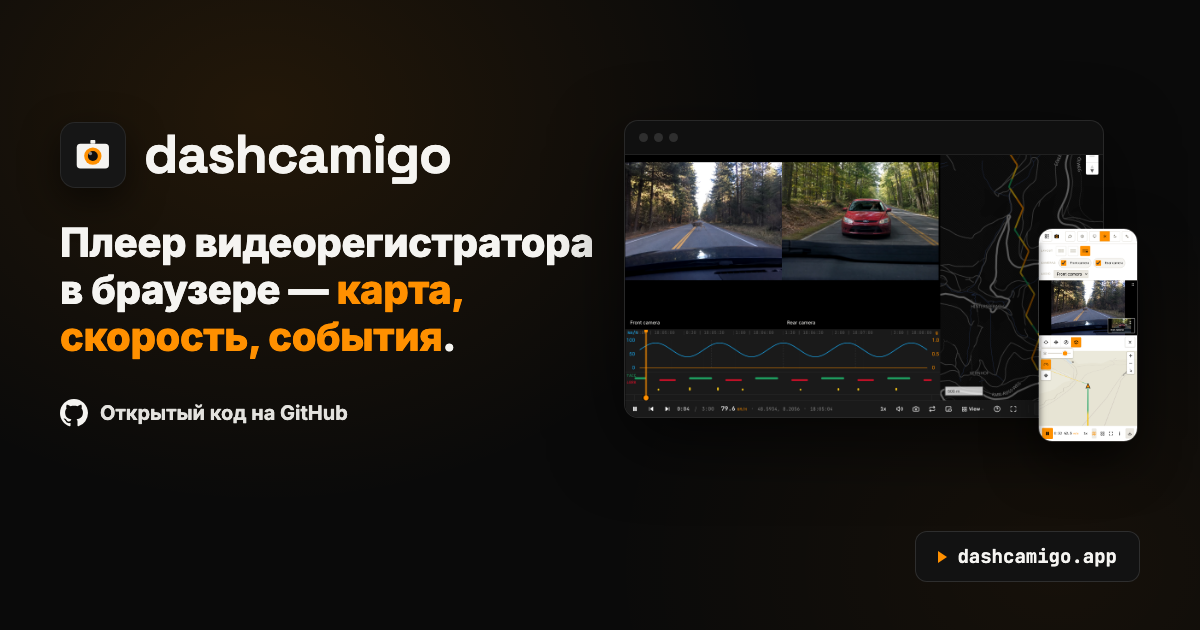
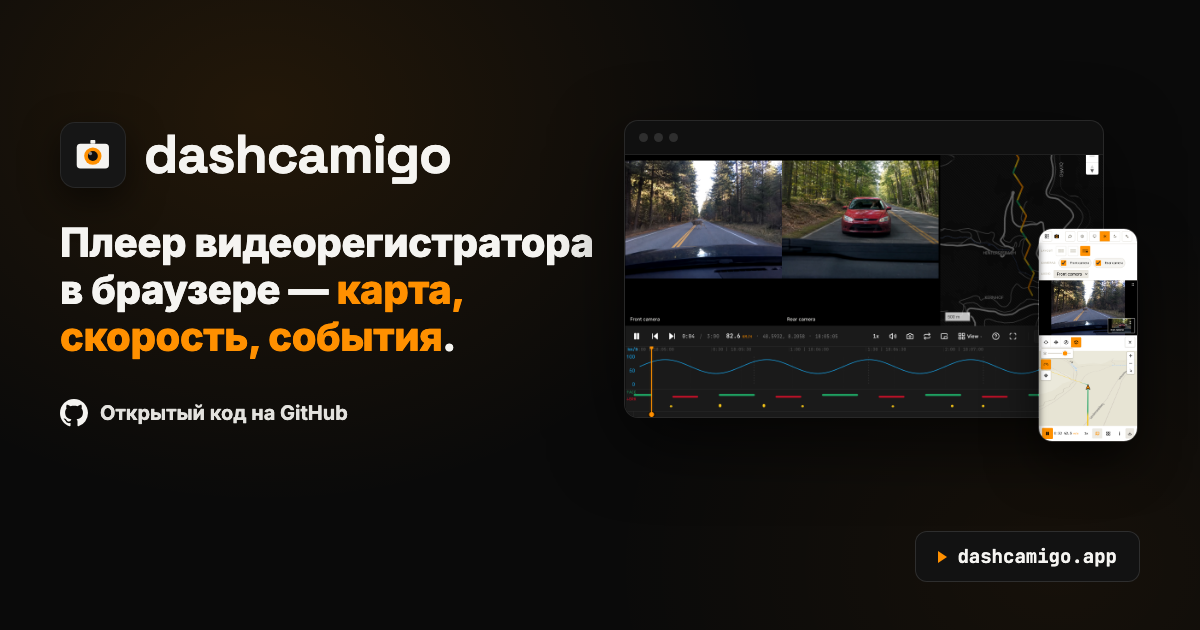
feat(player): expanded map pane matches the video row height
The map column used to run the full player height, narrowing the bar
and the timeline next to it. The pane now ends where the video row
ends, so the transport bar and the chart keep their full width below
both - the timeline does not lose horizontal resolution to the map.

README screenshots, the landing WebP set and the OG covers regenerated
for the new layout.

Changed region(s): [[0.5242, 0.2413, 0.8942, 0.6635], [0.8942, 0.6635, 0.925, 0.6937], [0.5858, 0.6333, 0.6167, 0.6635]]

diff --git a/src/styles/components/viewer.css b/src/styles/components/viewer.css
@@ -96,12 +96,13 @@ body.export-mode .player-wrap:not(:fullscreen):not(.map-expanded) {
         minmax(0, 1fr)
         4px
         minmax(220px, var(--map-width, clamp(280px, 34%, 480px)));
-    /* The map pane spans all three rows: the bar belongs to the player
-       columns only, so the map keeps an unbroken vertical strip. */
+    /* The map pane matches the video row only: the bar and the timeline
+       keep their full width below both, so the chart does not lose
+       horizontal resolution to the map column. */
     grid-template-areas:
         "video vmr map"
-        "bar bar map"
-        "chart chart map";
+        "bar bar bar"
+        "chart chart chart";
 }
 /* In no-gps trips the chart.js canvas is hidden (see chart.css), panel holds
    only ruler 14 + strip 52 + paddings. 72 = 14 + 52 + ~6 - picked so the
